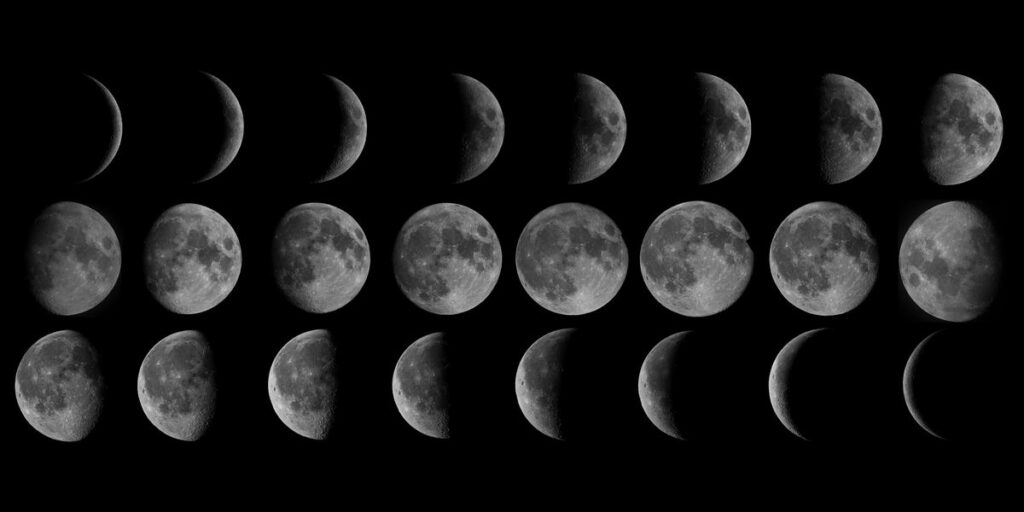
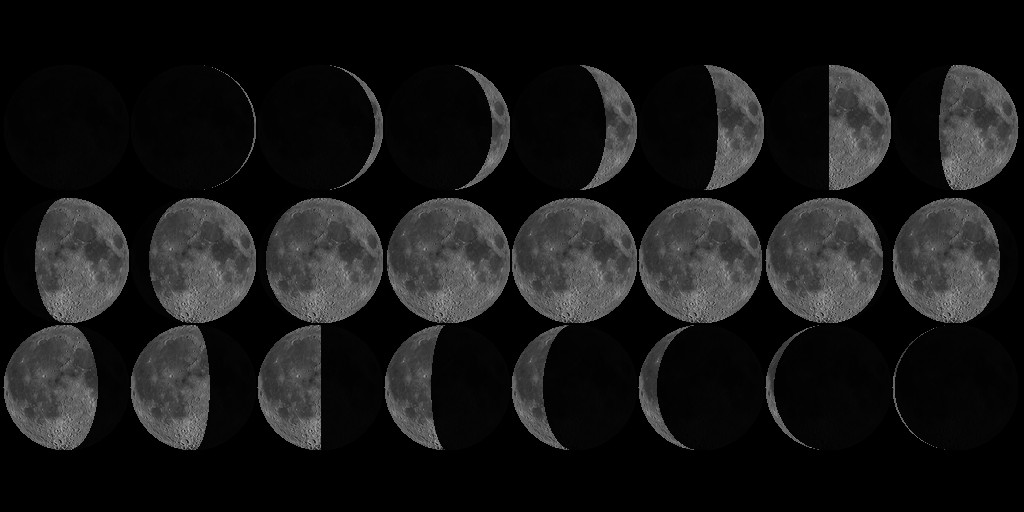
Replace moon.jpg with NASA LRO public-domain image
- moon.jpg: regenerate the 24-frame phase sprite from the NASA
  Lunar Reconnaissance Orbiter nearside mosaic (public domain),
  same 1024x512 / 3x8 layout so the site code is unchanged.
  Brightness matched to the previous sprite.
- Credit updated in references.html and both READMEs
  (Copyright / 版权): NASA / Lunar Reconnaissance Orbiter
  (public domain), replacing YAORUSHENG / GETTY IMAGES.

diff --git a/references.html b/references.html
@@ -176,7 +176,7 @@
         </p>
         <h2>IMAGE CREDITS</h2>
         <p class="refs">
-            moon.jpg &mdash; YAORUSHENG / GETTY IMAGES<br>
+            moon.jpg &mdash; NASA / Lunar Reconnaissance Orbiter (public domain)<br>
             Planet thumbnails &mdash; NASA<br>
             Planet 3D model &mdash; Vito Technology Inc.
         </p>

diff --git a/README.md b/README.md
@@ -42,7 +42,7 @@ The positions and sizes of the stars and planets, and the angle of the Moon on t
 - Modified the probability of stars' colors appearing
   
 # Copyright
-- moon.jpg YAORUSHENG/GETTY IMAGES
+- moon.jpg NASA / Lunar Reconnaissance Orbiter (public domain)
 - Planet thumbnails by NASA
 - Planet 3D model by Vito Technology Inc.
 - base code [是乃德也是Ned](https://zhuanlan.zhihu.com/p/506079249)

diff --git a/README.zh_CN.md b/README.zh_CN.md
@@ -45,7 +45,7 @@
 - 修改了星星颜色出现的概率
 
 # 版权
-- moon.jpg YAORUSHENG/GETTY IMAGES
+- moon.jpg NASA / Lunar Reconnaissance Orbiter (public domain)
 - 行星缩略图 NASA
 - 行星3D建模 Vito Technology Inc.
 - 基本代码 [是乃德也是Ned](https://zhuanlan.zhihu.com/p/506079249)
